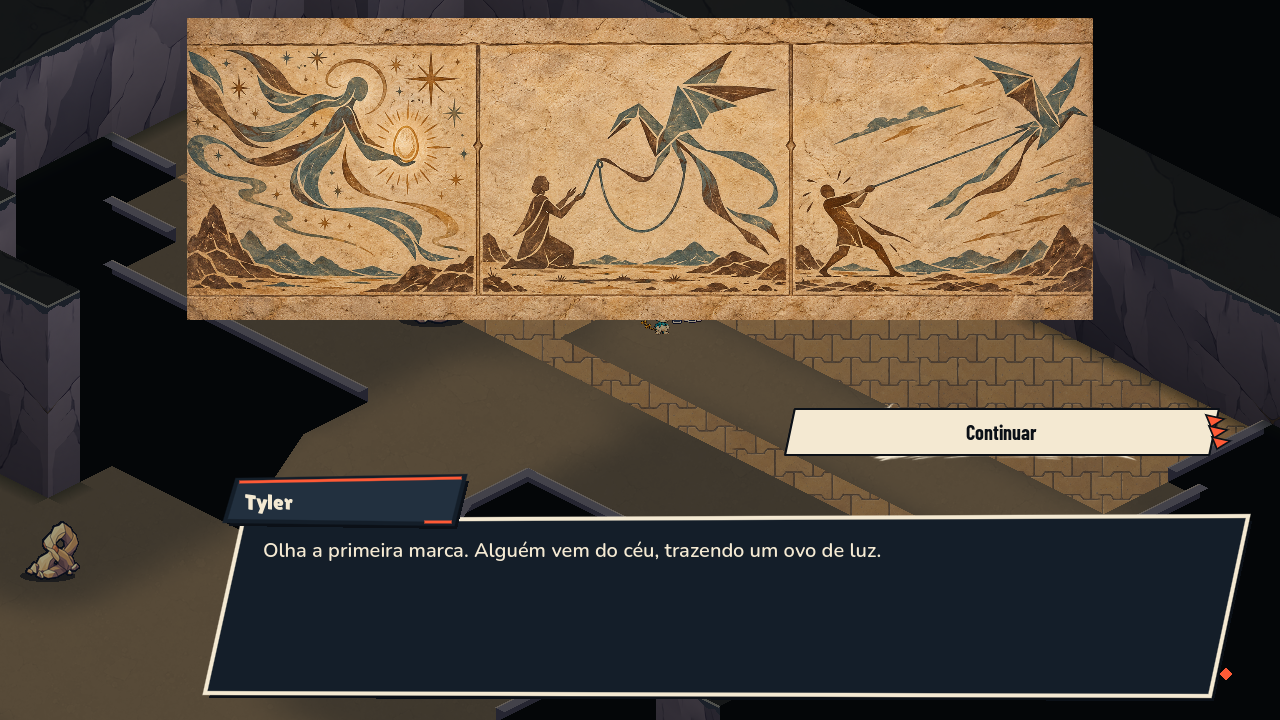
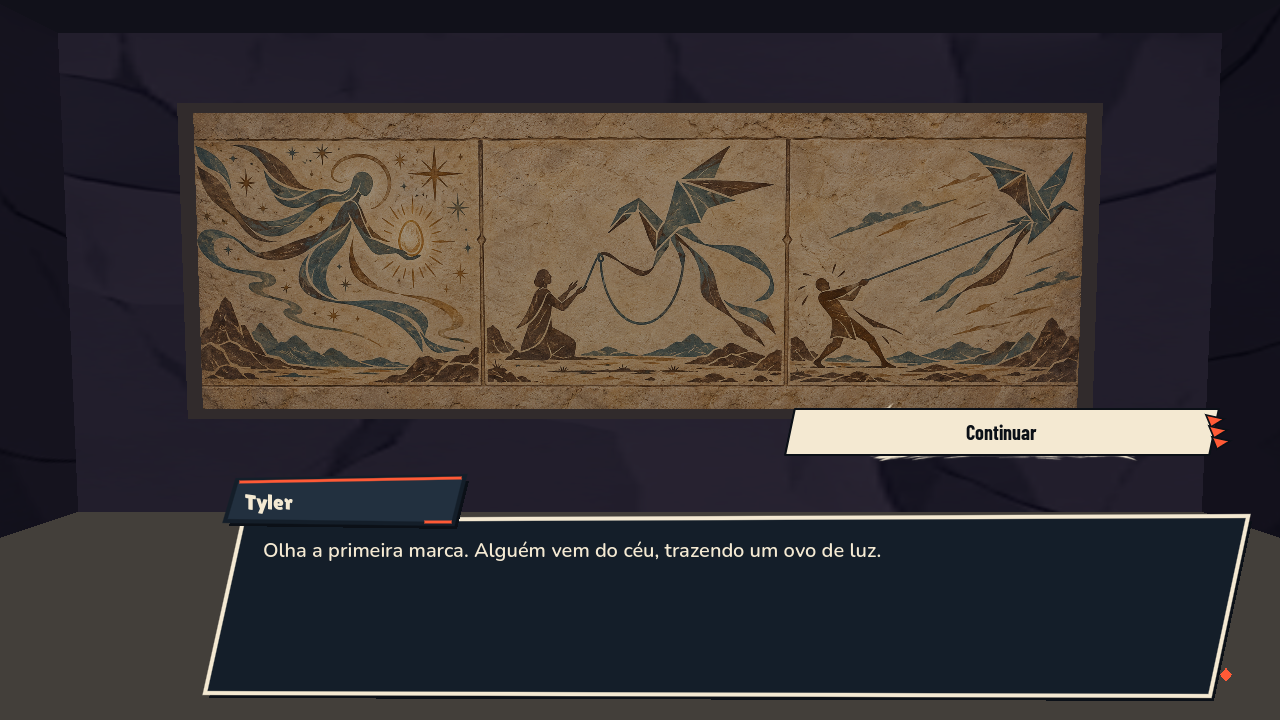
Mapa Caverna do Mural: enquadrar leitura com câmera frontal em perspectiva

diff --git a/documentation/overworld/caverna-mural/RELATORIO.md b/documentation/overworld/caverna-mural/RELATORIO.md
@@ -43,3 +43,9 @@ Aprovar a proposta pictográfica do mural. Próxima região de campeonato perman
 
 ## 8. Não verificado
 Não foi feita inspeção individual em tamanho nativo de cada uma das432 imagens; os detalhes foram revisados por pranchas e amostras, portanto o acabamento visual não recebe aprovação final. Não houve sessão manual longa com controle físico, Steam Deck ou build exportada. O teste de fluxo usa fixture local com pré-requisitos preparados; não repete desde o prólogo. Sem avaliação de duração narrativa com jogadores externos. Não implementa movimento dramatizado, dublagem, música própria, animação da luz da rabiola ou Soulgen para Tyler. Reaproveita formações do kit de cavernas. Sem merge/push/deploy nesta etapa.
+
+
+## Revisão — câmera frontal do mural
+Substituída a imagem solta sobre a exploração por um palco cinematográfico com Camera3D em viewport independente: parede de calcário, chão e moldura com espessura, mantendo a ilustração 2D original. Movimento oblíquo→frontal em 1,15s, uma vez por entrada na leitura; não reinicia entre as três etapas. Movimento reduzido vai direto à posição frontal. Cancelamento e conclusão removem o palco e liberam a exploração sem alterar a posição do jogador. Retratos ficam ocultos durante todas as páginas para não tapar o painel. Geometria e colisões do mapa permanecem iguais.
+
+Fluxo nativo atualizado:27 verificações sem falhas, incluindo início oblíquo, chegada frontal, continuidade entre etapas, cancelamento, retomada com movimento reduzido e liberação ao concluir. Capturas 03a-camera-entrada.png e 03-primeiro-laco.png mostram os dois ângulos em 1280×720. É um enquadramento de leitura separado; não converte o mapa inteiro em 3D nem anima Tyler de costas. Não foi medido em Steam Deck/build exportada.
